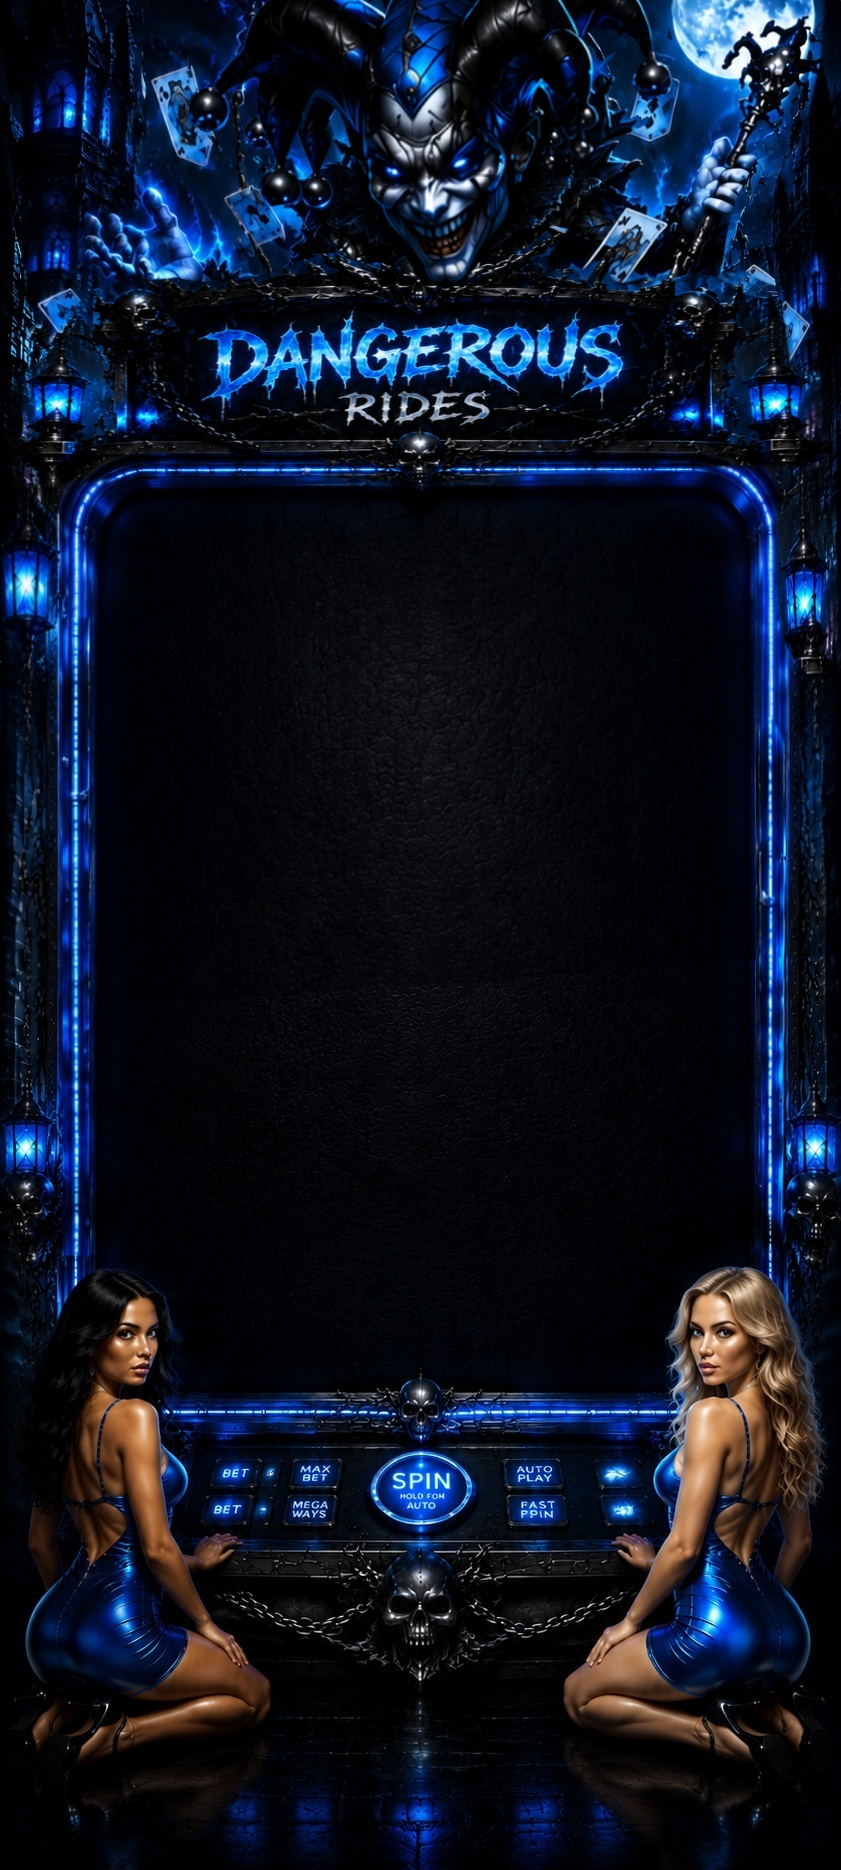
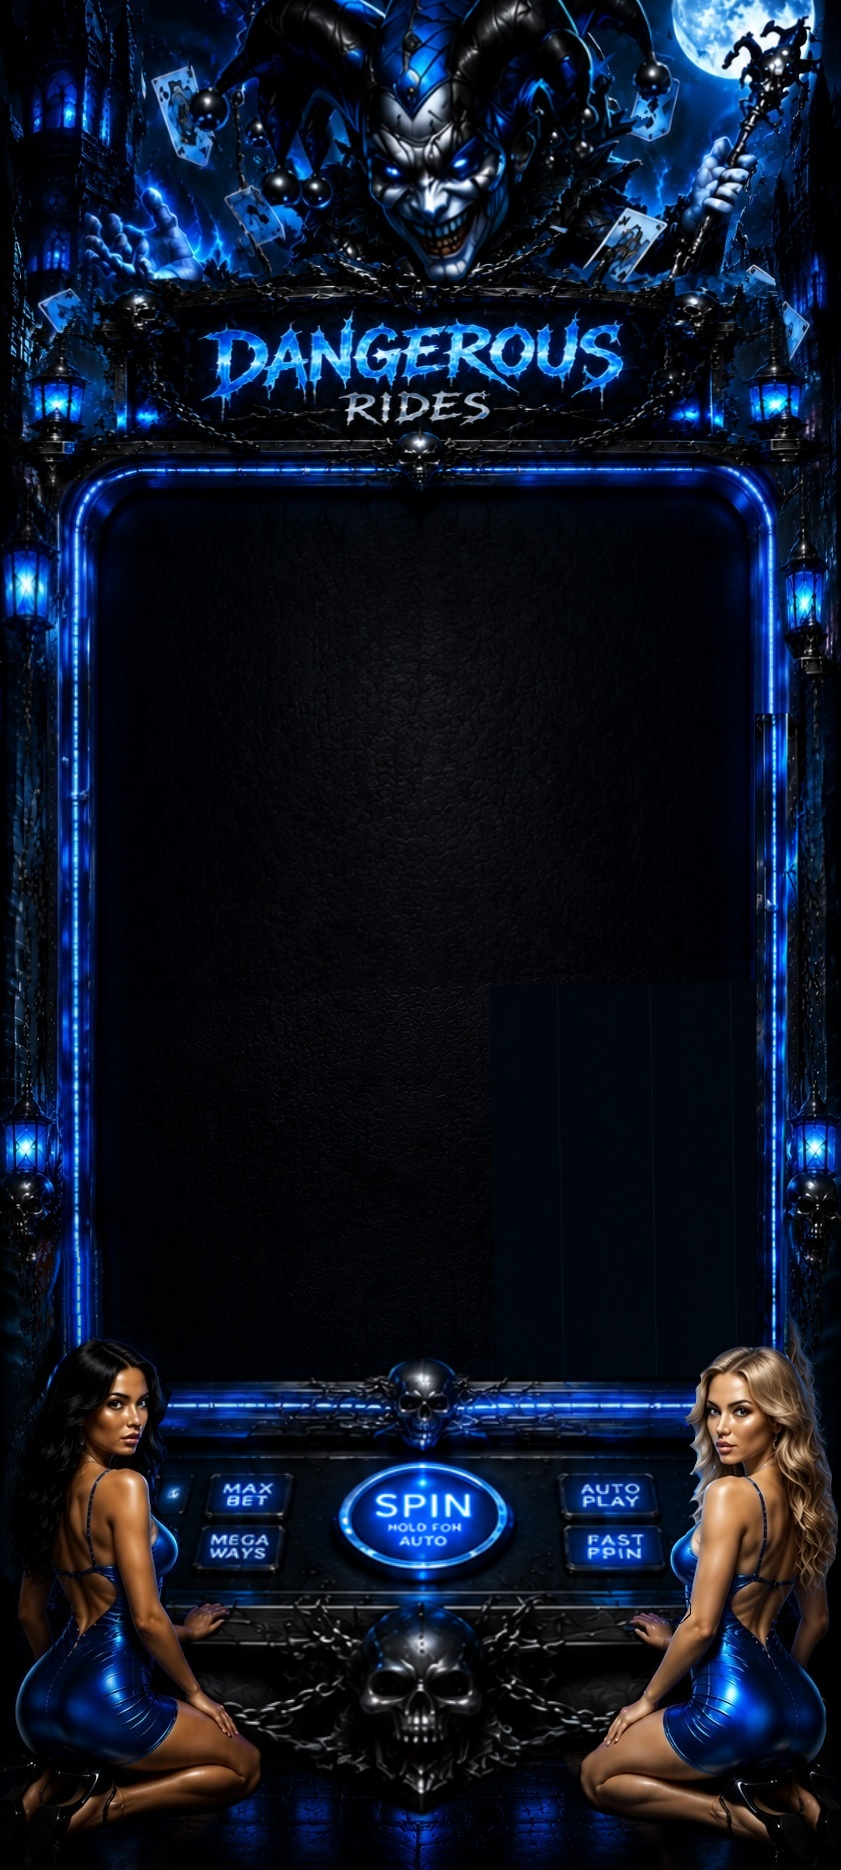
Fresh backdrop, drop face-overlay hack, aim card stream at joker's hand
New backdrop upload replaces the previous one. Removed the model-face
overlay images/CSS entirely — the reel-window (already trimmed to 49%
height in the prior pass) doesn't actually overlap the models' faces
on this artwork, so the overlay was solving a problem that no longer
exists. Card stream start position tightened to sit exactly at the
staff hand (84%, 10%) instead of the general hand/shoulder area.

Changed region(s): [[0.0, 0.3722, 1.0, 0.9925]]

diff --git a/live/css/game.css b/live/css/game.css
@@ -47,8 +47,8 @@ html, body {
 
 .stream-card {
   position: absolute;
-  left: 76%;
-  top: 16%;
+  left: 84%;
+  top: 10%;
   width: min(7vw, 30px);
   aspect-ratio: 5 / 7;
   border-radius: 14%;
@@ -111,30 +111,6 @@ html, body {
   display: grid;
   gap: 1px;
   padding: 0.6%;
-}
-
-/*
-  The kneeling models' heads sit at the bottom corners of the reel grid,
-  so the outer-column bottom tiles would otherwise render over their
-  faces. These are clean cutouts of the same models, layered above the
-  reel-window (and above winning-tile glow) so the face always reads as
-  in front of the reel regardless of what's spinning underneath.
-*/
-.model-face {
-  position: absolute;
-  top: 63%;
-  width: 27%;
-  height: auto;
-  z-index: 6;
-  pointer-events: none;
-}
-
-.model-face-left {
-  left: 0;
-}
-
-.model-face-right {
-  right: 0;
 }
 
 .tile {

diff --git a/live/game.html b/live/game.html
@@ -29,9 +29,6 @@
 
     <div class="reel-window" id="reelWindow"></div>
 
-    <img class="model-face model-face-left" src="images/dash.screens/model-left-face.png" alt="">
-    <img class="model-face model-face-right" src="images/dash.screens/model-right-face.png" alt="">
-
     <div class="win-flash-layer" id="winFlashLayer"></div>
 
     <div class="hud">
